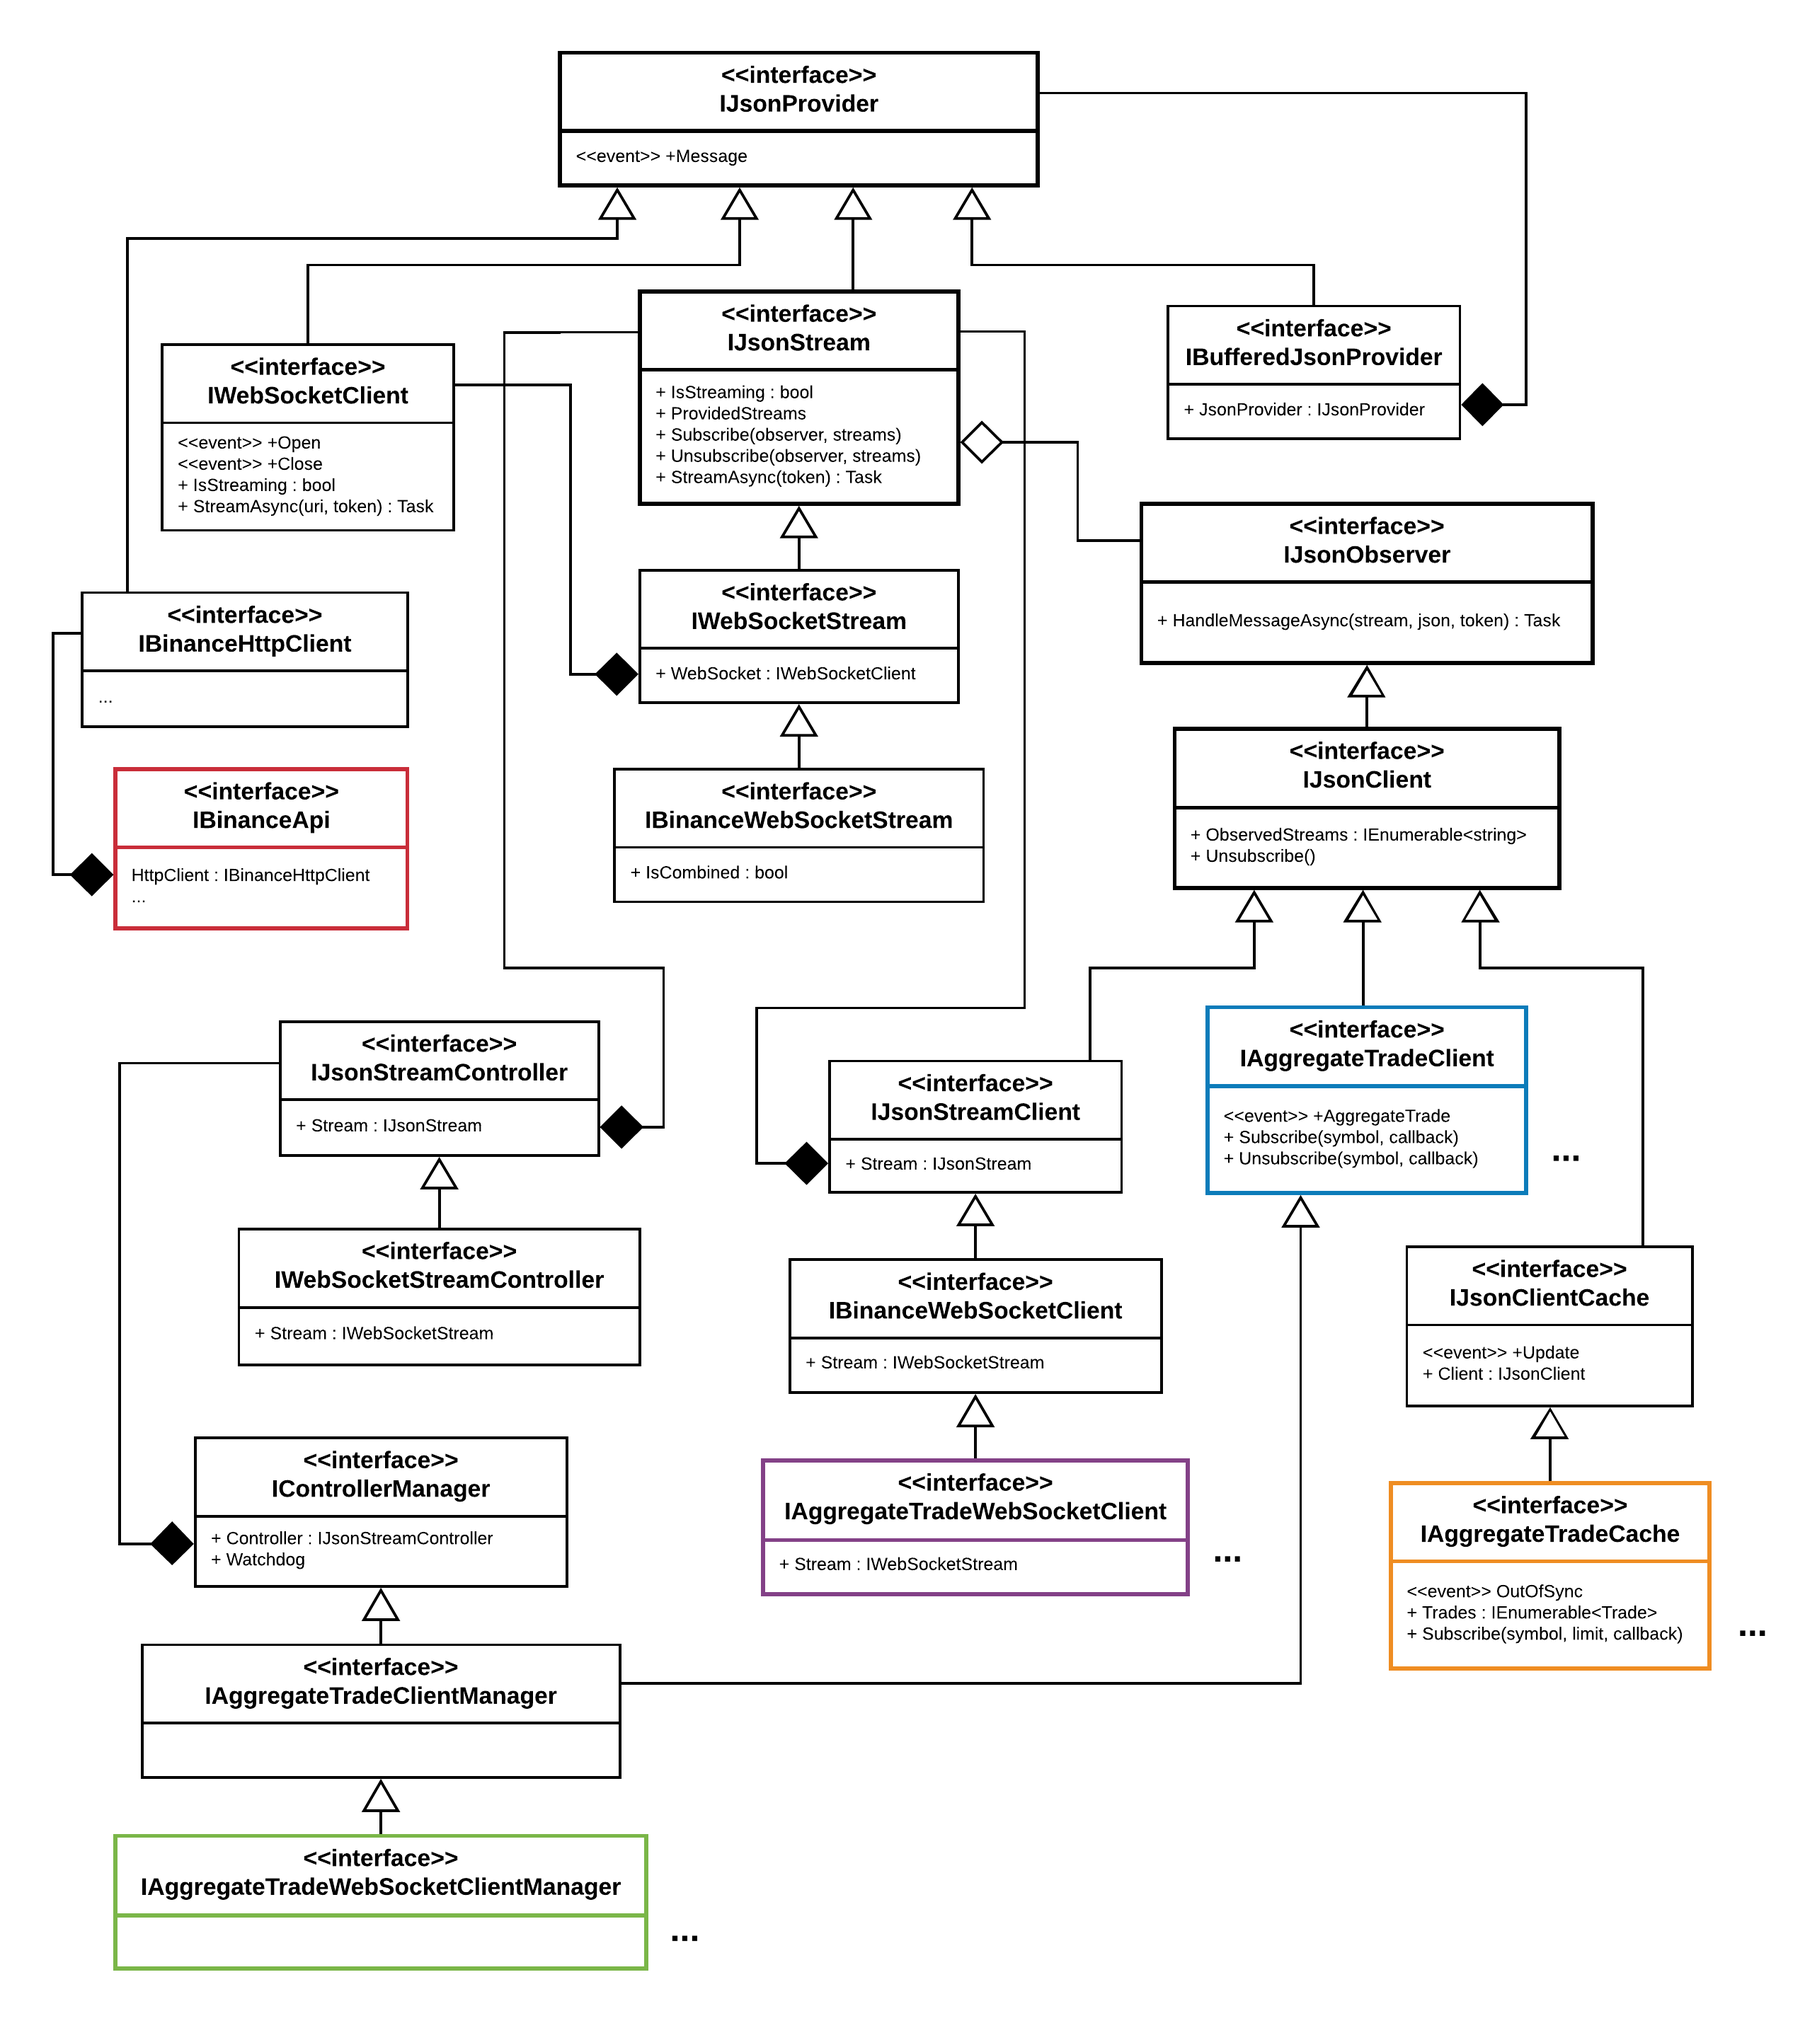
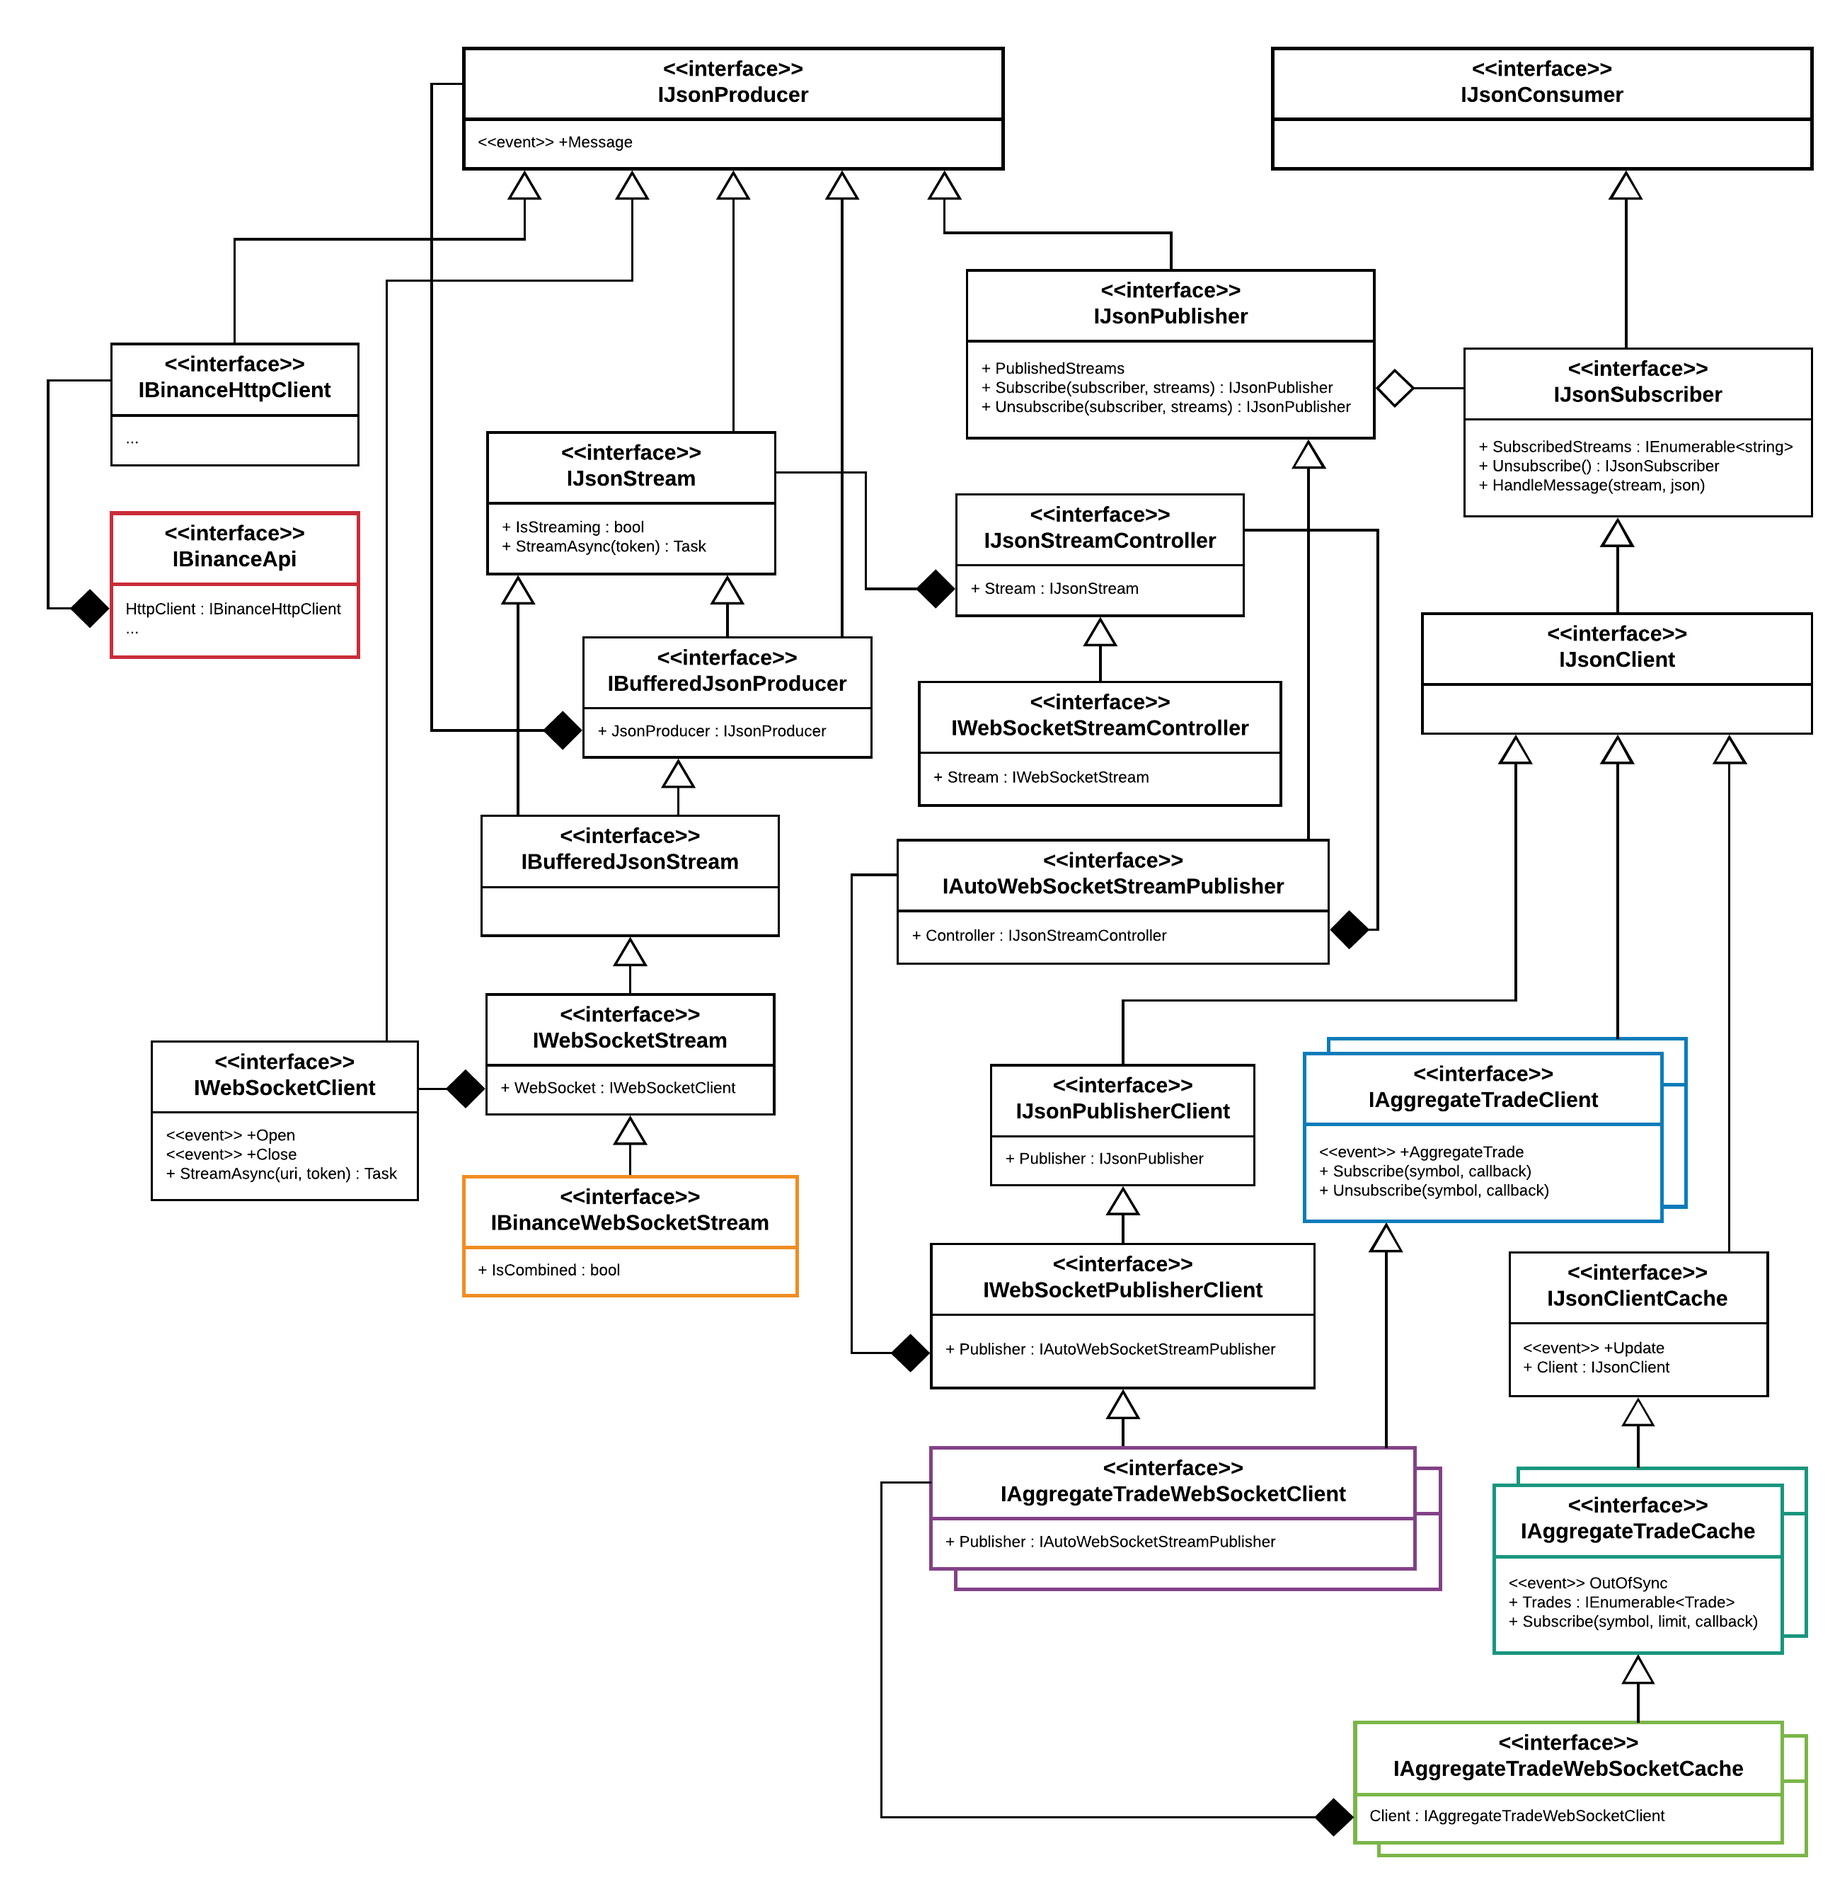
Update architecture.png

diff --git a/src/Binance/WebSocket/IWebSocketPublisherClient.cs b/src/Binance/WebSocket/IWebSocketPublisherClient.cs
@@ -1,8 +1,7 @@
 using Binance.Client;
-using Binance.Producer;
 
 namespace Binance.WebSocket
 {
-    public interface IWebSocketPublisherClient : IJsonPublisherClient<IAutoJsonStreamPublisher<IWebSocketStream>>, IError
+    public interface IWebSocketPublisherClient : IJsonPublisherClient<IAutoWebSocketStreamPublisher>, IError
     { }
 }

diff --git a/src/Binance/Client/IJsonSubscriber.cs b/src/Binance/Client/IJsonSubscriber.cs
@@ -3,7 +3,7 @@
 namespace Binance.Client
 {
     /// <summary>
-    /// An observer of an <see cref="IJsonPublisher"/>.
+    /// An subscriber of an <see cref="IJsonPublisher"/>.
     /// </summary>
     public interface IJsonSubscriber : IJsonConsumer
     {

diff --git a/src/Binance/WebSocket/IAutoWebSocketStreamPublisher.cs b/src/Binance/WebSocket/IAutoWebSocketStreamPublisher.cs
@@ -1,0 +1,7 @@
+using Binance.Producer;
+
+namespace Binance.WebSocket
+{
+    public interface IAutoWebSocketStreamPublisher : IAutoJsonStreamPublisher<IWebSocketStream>
+    { }
+}
